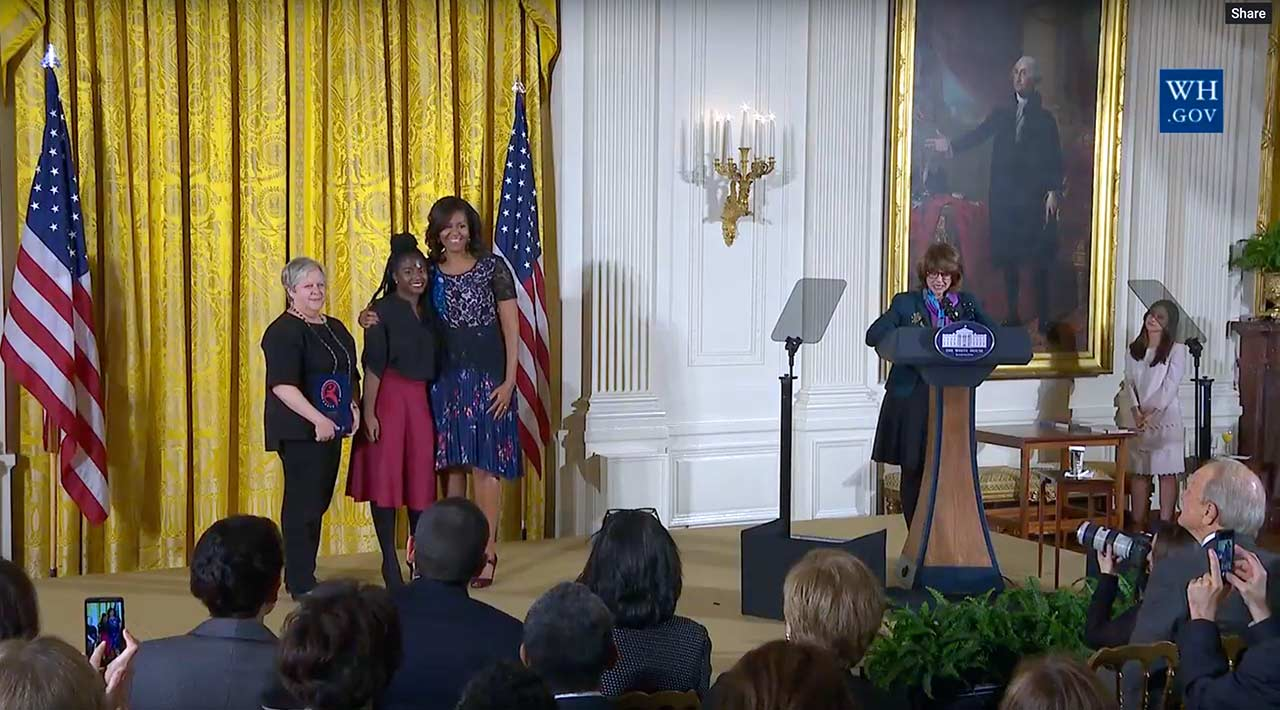
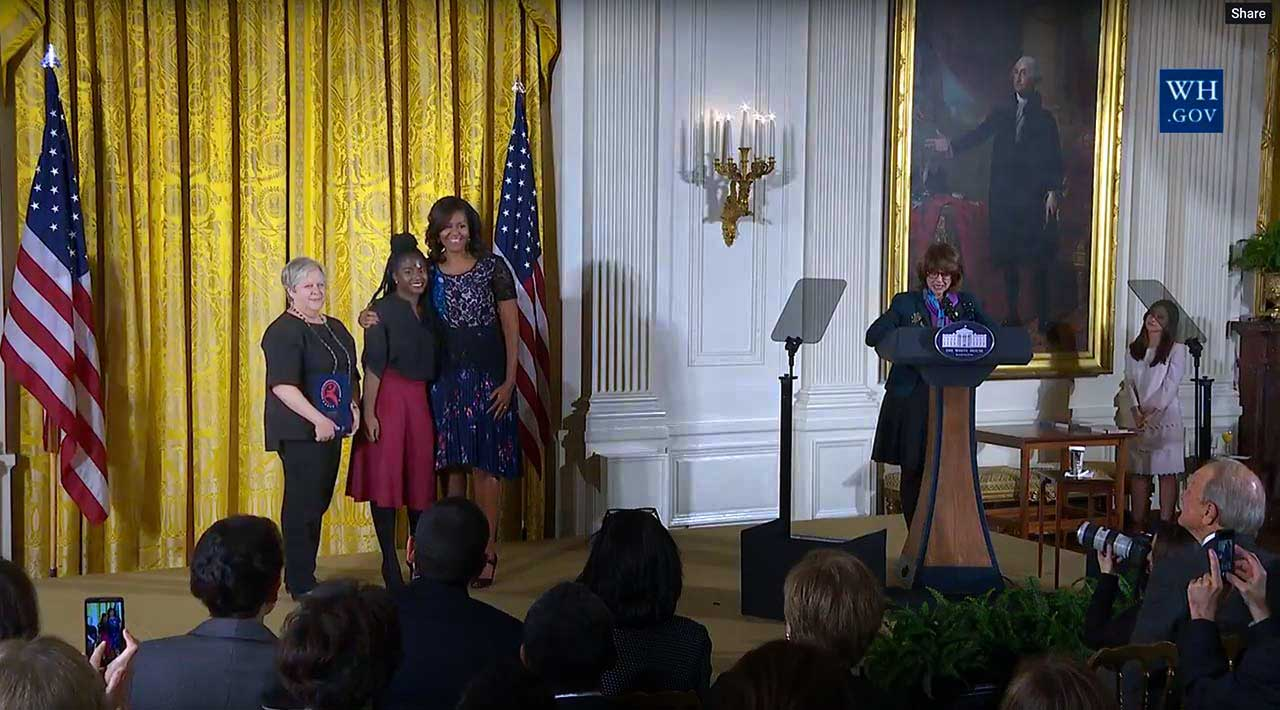
update content on work pages

diff --git a/layouts/_default/_markup/render-image.html b/layouts/_default/_markup/render-image.html
@@ -1,3 +1,3 @@
 <p class="resize">
-  <img class="render-hooked" src="{{ .Destination | safeURL }}" alt="{{ .Text }}" {{ with .Title}} title="{{ . }}"{{ end }} loading="lazy" />
+  <img class="render-hooked" src="{{ .Destination | safeURL }}" alt="{{ .Text }}" {{ with .Title}} title="{{ . }}"{{ end }} />
 </p>

diff --git a/content/work/metriclab.md b/content/work/metriclab.md
@@ -12,7 +12,7 @@ seo_page_title = ""
 subtitle = ""
 title = "MetricLab"
 [[layers]]
-head = "Issues"
+head = "Problems"
 template = "fm_layer_content"
 text = "MetricLab was starting to have identity problems. One half of the problem was that clients weren't clear about what they did. The other half of the problem was that they didn't look as cutting-edge as they said they were.\n\nAs you can see below, their old site was quite stale. Their website and identity were stuck back in the days when we used to call the internet \"cyber space.\" The value that they offered was not being refelcted in their identity nor their website. \n\nYou know the deal—time for a redesign.\n\n![](/uploads/clients/metriclab/active-com.jpg)"
 [[layers]]
@@ -21,7 +21,7 @@ text = "We need a complete make over"
 [[layers]]
 head = "Rebrand"
 template = "fm_layer_content"
-text = "We came up with a new name, logo and website. Most beginnings are humble—so are the designs that accompany them. It's important to get in the game with your best foot forward. However, with success, it's important to keep your identity in line with your growth.  MetricLab had grown substantially since they opened. They decided it was time to level up. They wanted their identity to match their high quality services. They also wanted a look that appealed to their current and potential clients.\n\n## New name\n\nWe changed the name to **MeticLab**. The old name, ActiveCommLabs LLC suffered in many ways. First off, it wasn't memorable. Second, it was very generic sounding. Thrid, the LLC part made their business sound like a law firm. So we chose a [suggestive naming style](https://www.liquidagency.com/brand-exchange/sti-6-naming-styles/) to keep their name aligned with what they did, but with a much [stronger name](https://www.martyneumeier.com/strong-vs-weak-names).\n\n![](/uploads/clients/metriclab/Business-Card.jpg)\n\n## New logo\n\nWe redesigned the logo. The old logo had a lot of bad things going for it. First, it's design was sending conflicting messages. The circle with arrows was sending a message that implied recycling, which they didn't do. Next, the AC monogram looked like something you'd see on towels at your grandparents house. It was a style of lettering that rooted them in looking old instead of new.\n\nWe created a better logo by using a square shape to relate it visually to a unit of measurement. Also, a square is a stable and timeless shape. A square doesn't look old or new. It just looks stable and balanced. The mL and layout borrows an appearance similar to the periodic table, and that's the point. We wanted to employ all the tricks in the book to align their identity with being scientific, analytical and percise.\n\n![](/uploads/clients/metriclab/ml-logos.png)\n\n## New website\n\nWe designed and developed a brand new website. The old website had bad design, layout and imagery. The image of the girl with the laptop was bad, but the fact that the laptop screen wasn't even turned on made the image even more painful. We wanted the new website to fix all of these problems.\n\nWe wanted the new website to take it's time to introduce itself to the viewer. We started with a strong and clear statement about what they did, “Relentless Research and Innovation.” We then took the time to slowly intoduce what they did, and we ended on a strong client list to reinforce their authority and experience in the field."
+text = "We came up with a new name, logo and website. Most beginnings are humble—so are the designs that accompany them. It's important to get in the game with your best foot forward. However, with success, it's important to keep your identity in line with your growth.  MetricLab had grown substantially since they opened. It was time to level up and match their identity to their high quality services.\n\n## New name\n\nWe changed the name to **MeticLab**. The old name, ActiveCommLabs LLC suffered in many ways. First off, it wasn't memorable. Second, it was very generic sounding. Thrid, the LLC part made their business sound like a law firm. So we chose a [suggestive naming style](https://www.liquidagency.com/brand-exchange/sti-6-naming-styles/) to keep their name aligned with what they did, but with a much [stronger name.](https://www.martyneumeier.com/strong-vs-weak-names)\n\n![](/uploads/clients/metriclab/Business-Card.jpg)\n\n## New logo\n\nWe redesigned the logo. The old logo had a lot of bad things going for it. First, it's design was sending conflicting messages. The circle with arrows was sending a message that implied recycling, which they didn't do. Next, the AC monogram looked like something you'd see on towels at your grandparents house. It was a style of lettering that rooted them in looking old instead of new.\n\nWe created a better logo by using a square shape to relate it visually to a unit of measurement. Also, a square is a stable and timeless shape. A square doesn't look old or new. It just looks stable and balanced. The mL and layout borrows an appearance similar to the periodic table, and that's the point. We wanted to employ all the tricks in the book to align their identity with being scientific, analytical and percise.\n\n![](/uploads/clients/metriclab/ml-logos.png)\n\n## New website\n\nWe designed and developed a brand new website. The old website had bad design, layout and imagery. The image of the girl with the laptop was bad, but the fact that the laptop screen wasn't even turned on made the image even more painful. We wanted the new website to fix all of these problems.\n\nWe wanted the new website to take it's time to introduce itself to the viewer. We started with a strong and clear statement about what they did, “Relentless Research and Innovation.” We then took the time to slowly intoduce what they did, and we ended on a strong client list to reinforce their authority and experience in the field."
 [[layers]]
 alt = "Screen shot of new MetricLab website"
 image = "/uploads/clients/metriclab/ml-site.jpg"

diff --git a/content/work/segl.md b/content/work/segl.md
@@ -1,5 +1,5 @@
 +++
-client_heading = "A great client with a great cause"
+client_heading = "You will know when it's time for a redesign"
 client_image = "/uploads/clients/segl/students8.jpg"
 client_location = "D.C."
 client_logo = "/uploads/clients/logos/white/segl-rectangle-white.svg"
@@ -12,23 +12,23 @@ seo_page_title = ""
 subtitle = ""
 title = "The School for Ethics and Global Leadership"
 [[layers]]
-head = "Change"
+head = "Problems"
 template = "fm_layer_content"
-text = "The School for Ethics and Global Leadership (SEGL) is a semester school for high school students who want to learn how to become ethical leaders and create positive change in the world.\n\nIn 2008, SEGL sought to build a lasting identity and website for the school. The staff wanted to refresh their site and were kicking around the idea of a new logo. \n\nLogo redesign shouldn't be taken lightly — after all, it's your business's identity. For a lesser-known organization with a bad logo, it's best to start anew. But in cases where people recognize and embrace your logo, it’s smarter to make little steps forward. Remember how bad the Gap’s massive rebranding went?(https://medium.com/@gfraikin/gap-worse-rebrand-ever-even-6-years-later-4a883d0cc736u)? \n\nSo here’s what we did.\n\n## Old Logo\n\n![](/uploads/clients/segl/segl-v2-brown.png)\n\n## New Logo"
-[[layers]]
-image = "/uploads/clients/segl/segl-trio-green.png"
-template = "fm_layer_image"
+text = "The School for Ethics and Global Leadership(SEGL) was starting to have problems with their website and their logo. Business had been good, but they noticed that their dated website and logo were starting to make them look behind the times compared to other schools. Also, they were having problems with their long rectangular logo fitting into small square or circular social media profile images."
 [[layers]]
 head = "Shapes"
 template = "fm_layer_content"
-text = "We made subtle changes to the new logo to fix it up but made sure it looked familiar to SEGL's community. We ditched the lowercase letters as that was more popular in the early 2000s. We also changed the font from Garamond to Museo Slab. We wanted to keep the traditional look of serif letters yet use a more modern serif. We got rid of the Kodak like side cuts that pointed to the map of the world. Instead, we set the logo to several geometric shapes that made it timeless and stable. Also, logo design today requires a mark that can work across a rectangular, square and circular space. Social media accounts require square or circular profile images, while websites and bumper stickers like rectangular dimensions."
+text = "We improved the old logo by making subtle yet cool changes to it. First, we ditched the lowercase letters. Lowercase lettering was more popular in the early 2000s. Second, also changed the font from Garamond to Museo Slab. We wanted to keep the traditional look of serif letters yet use a more modern serif. Third, we got rid of the Kodak like side cuts that pointed to the map of the world. Instead, we set the logo to several geometric shapes that made it timeless and stable. Lastly, we made a rectangular, square and circular version of the logo. This enables SEGL to effectively use their logo in round social media profile images, rectangular website layouts and client logo grids. Overall, it was important to keep the new logo familiar to SEGL's community-and we did that.\n\n## Old Logo\n\n![](/uploads/clients/segl/segl-v2-brown.png)\n## New Logo(s)\n![](/uploads/clients/segl/new.png)"
+[[layers]]
+image = "/uploads/clients/segl/segl-bg.png"
+template = "fm_layer_image"
 [[layers]]
 template = "fm_layer_quote"
-text = "Change Yourself Change the World"
+text = "You made our logo even better!"
 [[layers]]
 head = "Website"
 template = "fm_layer_content"
-text = "Although their original website had been serving them fine, it was time for a redesign. SEGL wanted to both freshen the site and have the ability to better manage the content in the site, especially the home page. We redesigned the site to function as a stack of movable layers. Each layer serves a single purpose for clarity and can be updated and repositioned anywhere on the homepage.\n\nWe also converted the website from WordPress to Hugo and Forestry. We wanted to take advantage of static site technology for speed and security. Additionally, we wanted a content management system with less bloat. Just by moving to the new platforms, we will be able to delete 20GB of cruft. And the bonus? It will  help keep their hosting costs low."
+text = "SEGL's current website was thriteen years old and was showing signs of againg. The image slider at the top is a relic of the past, and so is the gradient background. The old site wasn't responsive either-it wasn't optimized for viewing on mobile devices.\n\n## Old Website\n\n![](/uploads/clients/segl/segl-old-site.jpg)\n\n## New website\n\nSEGL wanted to both improve the look of their website and their ability to manage the content in the site, especially the home page. To achieve this, we redesigned the site to function as a stack of movable layers. Each layer serves a single purpose for clarity and can be updated and repositioned anywhere on the homepage.\n\nWe also converted the website from WordPress to Hugo and Forestry. We wanted to take advantage of static site technology for speed, security and fast customization. Making this change also enabled SEGL to delete 20GB of bloated WordPress nonsense. This further allowed them to save on hosting fees too."
 [[layers]]
 alt = "Screen shot of new Metric Lab website"
 image = "/uploads/clients/segl/segl-website.jpg"

diff --git a/content/work/earthdance.md b/content/work/earthdance.md
@@ -12,13 +12,13 @@ seo_page_title = ""
 subtitle = ""
 title = "Earthdance"
 [[layers]]
-head = "Issue"
+head = "Stale"
 template = "fm_layer_content"
-text = "Earthdance had an old, stale website with layout and content issues. They wanted a fresh new look, and they wanted to better organize the information.\n\n## The old site\n\nAs you can see, the old site has some major issues. First, there is a big pothole under the navigation where their featured image section had broken. Second, the page is broken into several columns. This creates a an unfortunate phenomenon called info barf. When you make colums you actual make each column fight for attention. It's like having multiple people talking to you at once. Thus, you have to ignore every column but the one you want. Since the main column is the one you focus on, you contition your viewers to ALWAYS ignore your side columns. Now, that extra info you provide is NEVER viewed.\n\n![](/uploads/clients/earthdance/old-website.jpg)"
+text = "Earthdance had an old, stale website with layout and content issues. They wanted a fresh new look, and they wanted to better organize the information in the website.\n\n## The old site\n\nAs you can see, the old site has some major issues. First, there is a big pothole under the navigation where their featured image section had broken. Second, the page is broken into several columns. This creates a an unfortunate phenomenon called info barf. When you make colums you actual make each column fight for attention. It's like having multiple people talk to you at once. Thus, you have to ignore every column but the one you want. Since the main column is the one you focus on, you contition your viewers to ALWAYS ignore your side columns. Now, that extra info you provide is NEVER viewed.\n\n![](/uploads/clients/earthdance/old-website.jpg)"
 [[layers]]
-head = "Solution"
+head = "Fresh"
 template = "fm_layer_content"
-text = "We designed and developend a fresh new website that was easy to manage and navigate. We used “layers” instead of columns to organize the content into single purpose sections. No more “info barf.” We wanted the homepage to slowly intoduce what Earthdance does. No need to say everything at once, just scroll down and it will introduce the next section without conflicting content.\n\nWe used a great pluign for WordPress called “Advanced Custom Fields” to greatly help with managing all the custom content in the site."
+text = "We designed and developend a fresh new website that was easy to manage and navigate. We used “layers” instead of columns to organize the content into single purpose sections. No more “info barf.” We wanted the homepage to slowly intoduce what Earthdance does. No need to say everything at once, just scroll down and it will introduce the next section without conflicting content.\n\nWe used a great pluign for WordPress called “Advanced Custom Fields” to allow for more advanced page management and customization."
 [[layers]]
 alt = "Screen shot of new Earthdance Farms website"
 image = "/uploads/clients/earthdance/homepage-EarthDance.jpg"
@@ -27,10 +27,6 @@ template = "fm_layer_browser"
 head = "Technical"
 template = "fm_layer_content"
 text = "The old site was suffering heavily from classic WordPress issues. It was loading very slowly, it was getting hacked, and it would also crash when they tried to update plugins or WordPress versions. We fixed all of these issues by moving the site to WPEngine for hosting. WPEngine handles all of the performance issues that come with WordPress. They cache the pages and store static assets, like images, to a “Content Delivery Network(CDN)”. This greatly improves the loading speed of a WordPress site. WPEngine also manages security to prevent your site from getting hacked. They also provide a “staging area” that allows you to make your updates in a testing space before you update the live site. This enabled us to make safe updates without crashing the site ever again. But these are only several of many benefits WPEngine offeres. In fact, WPEngine is so amazing with WordPress sites that it is the ONLY host I will use for WordPress sites."
-[[layers]]
-head = "Kind words"
-template = "fm_layer_content"
-text = "I am pleased to recommend Ben Gandhi-Shepard for whatever your website design needs may be. I was fortunate to work with him on the redesign of EarthDance’s website in 2017. He went above and beyond what I would have expected in creativity and customer service. He explained technical issues related to the design process in language I could understand, and was patient when he needed to explain things a second or third time. I love the design he developed for our website.\n\nSincerely,\n\nRachel Levi\n\nActing Executive Director"
 [[layers]]
 image = "/uploads/clients/earthdance/carry.jpg"
 template = "fm_layer_image"

diff --git a/content/about.md b/content/about.md
@@ -24,5 +24,5 @@ text = "Ben has worked with fortune 500 companies, financial institutions, museu
 [[layers]]
 head = "Process"
 template = "fm_layer_content"
-text = "The entire process is designed for effenciency, effectivness and endurance.\n\n## Effenciency\n\nThe process of making a redesign requires a lot of commuincation, however, this can also eat up a ton of time when mismanaged. To centralize this, SOLVM uses Discord. Discord allows us all to chat in one place without having to push hundreds of emails back and forth.\n\nThe design process will be centralized by using an application called Figma. This allows SOLVM to share a direct link to the designs. You can use this link to follow progress on the designs and/or make notes to discuss later. Again, there will be no need to email dozenes if not hundreds of screenshots back and forth during the design process. Having one link to the designs also makes it easy to share the project with others involved in the redesign.\n\nTo make the development of the website efficient, you will also have a link to the development site. The development site will have software in it that allows you to click any part of the site and leave a message. This will create a change list that will be easy for SOLVM to follow. No more wasted time trying to find where your requested changes are.\n\n## Effectiveness\n\nEffectiveness is created when we focus the redesign around a core business goal. Yes, the presenting goal is to look better, but the real opportunity is to create value needed for doing better business. SOLVM will make you decide upon a core business goal to work towards with the redesign. This greatly helps us stay focused on what is best for business.\n\nResearch will also be done into evaluating your competitors position. We don't need to compete with the entire world, we just need to outrun your direct competitors.\n\n## Endourance\n\nWe want out efforts to last as long as possible. The way we keep the site looking good for a long time is to base it on great typograpy, layout and imagery. These core design elements age gracefully. Gimicky design practices do not. SOLVM will also use web technologies that enable you to grow and change quickly online."
+text = "The entire process is designed for effenciency, effectivness and endurance.\n\n## Effenciency\n\nThe process of making a redesign requires a lot of commuincation, however, this can also eat up a ton of time when mismanaged. To centralize this, SOLVM uses Discord. Discord allows us all to chat in one place without having to push hundreds of emails back and forth.\n\nThe design process will be centralized by using an application called Figma. This allows SOLVM to share a direct link to the designs. You can use this link to follow progress on the designs and/or make notes to discuss later. Again, there will be no need to email dozenes if not hundreds of screenshots back and forth during the design process. Having one link to the designs also makes it easy to share the project with others involved in the redesign.\n\nTo make the development of the website efficient, you will also have a link to the development site. The development site will have software in it that allows you to click any part of the site and leave a message. This will create a change list that will be easy for SOLVM to follow. No more wasted time trying to find where your requested changes are.\n\n## Effectiveness\n\nEffectiveness is created when we focus the redesign around a core business goal. Yes, the presenting goal is to look better, but the real opportunity is to create value needed for doing better business. SOLVM will make you decide upon a core business goal to work towards with the redesign. This greatly helps us stay focused on what is best for business.\n\nResearch will also be done into evaluating your competitors position. We don't need to compete with the entire world, we just need to outrun your direct competitors.\n\n## Endourance\n\nWe want out efforts to last as long as possible. The way we keep the site looking good for a long time is to base it on great typograpy, layout and imagery. These core design elements age gracefully.\n\nSOLVM will also use web technologies that enable you to grow and change quickly online. This is how you get get a redesign done effecinetly, effectively and enable it to endure the test of time gracefully."
 +++

diff --git a/content/work/slaw.md b/content/work/slaw.md
@@ -1,6 +1,6 @@
 +++
-client_heading = "Working with Artworks"
-client_image = "/uploads/clients/slaw/background-001.jpg"
+client_heading = "Redesign at the right time"
+client_image = "/uploads/clients/slaw/AnnaLise-NAHYA-Michelle-Obama2.jpg"
 client_location = "STL"
 client_logo = "/uploads/clients/logos/logo_artworks.svg"
 client_type = "Job Training in the arts"
@@ -12,9 +12,9 @@ seo_page_title = ""
 subtitle = ""
 title = "St. Louis Artworks"
 [[layers]]
-head = "V3"
+head = "Opportunity"
 template = "fm_layer_content"
-text = "St. Louis Artworks (SLAW) is a program that offers job training to underserved STL teens by employing them as apprentices to professional artists. SLAW wanted to completely redesign their website, and this would be its third iteration.\n\n## Old Website\n\n![](/uploads/clients/slaw/slaw-old.jpg)\n\nThe old website had all the issues of websites made in the early 2000s. First, it had the three-column layout, which meant the main, center column of content is sandwiched between a left and right column. The idea behind this layout is to present as much information as possible. However, it makes for a visually busy look that competes for visitors' attention. Furthermore, it can cause some to ignore the content on the left and right columns. We wanted to do away with the three-column format.\n\nThe second issue is that the navigation is broken into three areas — top, main, and left. Again, competing elements. We wanted the redesign to only have one spot for navigation."
+text = "St. Louis Artworks (SLAW) wanted to completely redesign their website. Their old website had become stale and they wanted to improve their look online before a mojor effort to raise money for the program.\n\n## Old Website\n\n![](/uploads/clients/slaw/slaw-old.jpg)\n\nThe old website had all the issues of websites made in the early 2000s. First, it had the three-column layout, which meant the main, center column of content is sandwiched between a left and right column. The idea behind this layout is to present as much information as possible. However, it makes for a visually busy look that competes for visitors' attention. Furthermore, it can cause some to ignore the content on the left and right columns. We wanted to do away with the three-column format.\n\nThe second issue is that the navigation is broken into three areas — top, main, and left. Again, competing elements that cause confusion. We wanted the redesign to unify these into one navigation bar."
 [[layers]]
 alt = "Screenshot of new SLAW website"
 image = "/uploads/clients/slaw/slaw-website.jpg"
@@ -27,6 +27,10 @@ template = "fm_layer_browser"
 head = "The Fix"
 template = "fm_layer_content"
 text = "As you can see, we killed the columns and used layers instead. Using layers allows viewers to focus on one thing at a time and helps them interact with your site at a comfortable pace without competing content.\n\nWe put the entire navigation under a menu button at the top of the screen. This navigation disappears when you scroll down, but it instantly appears once you start to scroll back up, thereby adding convenience.\n\n## Google Analytics\n\nWe used Google Analytics to tell us which pages of the old website received the most traffic. After finding that the \"Apply\" and \"About\" pages were most popular, we designed the homepage to allow teens to apply to the program, and we included a section about SLAW that provided high-level info about the program. With the help of Google Analytics, we were able to make informed decisions that guided the website redesign."
+[[layers]]
+head = "Awards"
+template = "fm_layer_content"
+text = "Overall, it just so happened that completing this redesign coincided with the White House's research into outstanding youth programs in the nation. It's not that this redesign was the best in the world, but it surely was one of the best looking websites for youth programs in 2016. SLAW surely won the National Arts and Humanities Award on their on merit, but it surely supports your cause when you look as good as you say you are online."
 [[layers]]
 image = "/uploads/clients/slaw/slaw-bldg.jpg"
 template = "fm_layer_image"

diff --git a/content/work/nato-caliph.md b/content/work/nato-caliph.md
@@ -1,5 +1,5 @@
 +++
-client_heading = "Think this is hard enough? Try winnin'"
+client_heading = "Style is identity"
 client_image = "/uploads/clients/nato-caliph/nato-12.jpg"
 client_location = "STL"
 client_logo = "/uploads/clients/logos/white/nato-caliph-white.svg"
@@ -12,31 +12,31 @@ seo_page_title = ""
 subtitle = ""
 title = "Nato Caliph"
 [[layers]]
-head = "Lyrics"
+head = "Build"
 template = "fm_layer_content"
-text = "The heading above is a lyric from STL emcee and activist Nato Caliph. Making it in the music business is not for the faint of heart, neither is building and running your business — no matter what it is — from the ground up.\n\n## The Build\n\nNato Caliph was releasing a new album and needed a full refresh: new logo, photos and website. It was time to build."
-[[layers]]
-template = "fm_layer_quote"
-text = "Ben FTW!"
+text = "STL hip-hop emcee and activist, Nato Caliph, was releasing a new album, The Build. He needed graphic design, web development and photography to market his latest album release. It was time to build."
 [[layers]]
 head = "Handwritten"
 template = "fm_layer_content"
-text = "We started by creating a handwritten, signature-style logo.\n\n![](/uploads/clients/nato-caliph/nato-signature.jpg)"
+text = "SOLVM started by creating a handwritten, signature-style logo. SOLVM handwrote the logo using a broad tipped paint pen in a graffitisque style to root the mark in hip-hop culture.\n\n![](/uploads/clients/nato-caliph/nato-signature.jpg)"
+[[layers]]
+template = "fm_layer_quote"
+text = "The logo is dope!"
 [[layers]]
 head = "Photography"
 template = "fm_layer_content"
-text = "It was then time for photography. All images were captured by me using the amazing Fuji X-T3 and gorgeous 56mm f1.2 and 90mm f2 lenses."
+text = "Nato picked the location for the photo shoot, and SOLVM brought the gear. All images were captured using the amazing Fuji X-T3 with Fuji's gorgeous 56mm f1.2 and 90mm f2 lenses. The Fuji color-science is known for rendering amazing colors and skin tones. So it was the perfect fit for this shool."
 [[layers]]
 image = "/uploads/clients/nato-caliph/nato-13.jpg"
 template = "fm_layer_image"
 [[layers]]
-head = "CD"
+head = "Artwork"
 template = "fm_layer_content"
-text = "The next phase was to design and lay out the album cover.\n\n![](/uploads/clients/nato-caliph/cover.jpg)\n\n![](/uploads/clients/nato-caliph/disc.jpg)\n\n![](/uploads/clients/nato-caliph/back-cover.jpg)"
+text = "The next phase was to design the album artowrk.We stuck with the handlettering for the title. We used photos of Nato on the front and back to litterally put a face to the music.\n\n![](/uploads/clients/nato-caliph/cover.jpg)\n\n![](/uploads/clients/nato-caliph/disc.jpg)\n\n![](/uploads/clients/nato-caliph/back-cover.jpg)"
 [[layers]]
 head = "Website"
 template = "fm_layer_content"
-text = "We used the photos, new logos and music to create a new website."
+text = "We used the new photos, logo and music to create the website. We kept the site simple to keep the focus on the music and videos. As we were working on the site Nato wanted to expand it to also become an archive for all of his music and past shows. "
 [[layers]]
 alt = "Screenshot of new Nato Caliph website"
 image = "/uploads/clients/nato-caliph/nato-caliph-website.jpg"

diff --git a/content/work/afriky-lolo.md b/content/work/afriky-lolo.md
@@ -14,14 +14,14 @@ title = "Afriky Lolo"
 [[layers]]
 head = "Everything"
 template = "fm_layer_content"
-text = "Afriky Lolo needed help with graphic design, logo design, web design and photography-pretty much everything. The goal was to create an identity that was unique, representative of West African culture and professional. Afriky Lolo wanted to be authentic, professional and classy. We wanted to completely avoid that fake tribal lettering look that you typically see in the states.\n\n## The logo\n\nThe first goal was to create a logo. Afriky Lolo wanted a logo derived from one of their central characters in the performance, The Mask. This enabled us to create a powerful mark that grabs attent and hints at the energy of West African Dance."
+text = "Afriky Lolo needed help with graphic design, logo design, web design and photography—pretty much everything. The goal was to create an identity that was unique, classy, professional and representative of West African culture.\n\n## The logo\n\nThe first goal was to create a logo. Afriky Lolo wanted a logo derived from one of their central characters in the performance, The Mask. This enabled us to create a powerful mark that grabs attention and hints at the energy of West African Dance."
 [[layers]]
 image = "/uploads/clients/afriky-lolo/afriky-lolo-jump-logo.png"
 template = "fm_layer_image"
 [[layers]]
 head = "Website"
 template = "fm_layer_content"
-text = "We wanted to carry the energy and culture of Afriky Lolo into the site as well. We used a geometric backgound derived from West African textile decoration called, Bogolan to literaly wrap the site in their culture. We also used as many images as we could to help visitors feel the culture of Afriky Lolo."
+text = "We wanted to carry the energy and culture of Afriky Lolo into the site as well. We used a geometric backgound derived from West African textile decoration called, Bogolan to literaly wrap the site in West African culture. We also used as many images as we could to help visitors feel the energy and excitement within Afriky Lolo."
 [[layers]]
 alt = "Screen shot of new Afriky Lolo website"
 image = "/uploads/clients/afriky-lolo/afriky-lolo-website.jpg"

diff --git a/content/work/paul-shank.md b/content/work/paul-shank.md
@@ -14,7 +14,7 @@ title = "Paul Shank"
 [[layers]]
 head = "Vision"
 template = "fm_layer_content"
-text = "Artist Paul Shank had a specific vision for a website that would display his life's work. He had strong convictions about its design and stated he would be very detail-oriented. These clear-cut expectations make for a great client.\n\n## Paul's sketches.\n\n![](/uploads/clients/paul-shank/sketch.jpg)"
+text = "Artist Paul Shank had a specific vision for a website that would display his life's work. He had strong convictions about its design and stated he would be very detail-oriented. These clear-cut expectations make for a great client.\n\n## Paul's sketches.\n\n![](/uploads/clients/paul-shank/sketch.jpg)\n\nPaul had made rough sketches for every page in his site. These sketches provided a theme for the layout of the site. SOLVM then doctored the sketches and wrote the code for best performance, usability and search engine optimization."
 [[layers]]
 alt = "Screenshot of new Paul Shank website"
 image = "/uploads/clients/paul-shank/paul-shank-homepage.jpg"
@@ -26,7 +26,7 @@ template = "fm_layer_browser"
 [[layers]]
 head = "Results"
 template = "fm_layer_content"
-text = "Paul has been proud and confident in using this site to represent his work. He was able to use the new site to help secure a book deal. Though he apologized for being so detail oriented, Paul's specificity guided the project to a swift and accurate completion.\n\n## Also...\n\nThe site happens to perform incredibly fast!\n\n![](/uploads/clients/museum-gateway/museum-gateway-performance.png)"
+text = "Paul has been proud and confident in using this site to represent his work. He was able to use the new site to help secure a book deal. Though he apologized for being so detail oriented, Paul's specificity guided the project to a swift and accurate completion.\n\n## Also...\n\nThe site is incredibly performant!\n\n![](/uploads/clients/paul-shank/paul-shank-performance.png)"
 [[layers]]
 image = "/uploads/clients/paul-shank/still-050.jpg"
 template = "fm_layer_image"

diff --git a/content/work/museum-gateway.md b/content/work/museum-gateway.md
@@ -14,7 +14,7 @@ title = "Museum Gateway"
 [[layers]]
 head = "Endgame"
 template = "fm_layer_content"
-text = "The Contemporary Art Museum St. Louis needed help completing their Museum Gateway project. This project aimed to inform students, parents and teachers that museums offered job opportunities in varying careers. Museum Gateway worked with Maplewood Richmond Heights School District and the American Alliance of Museums to create a video and a book to present these opportunities. They just needed the final part, the website."
+text = "The Contemporary Art Museum St. Louis needed help completing their Museum Gateway project. This project aimed to inform students, parents and teachers that museums offered job opportunities in varying careers. Museum Gateway worked with Maplewood Richmond Heights School District and the American Alliance of Museums to create a video and a book to present these opportunities. They just needed the final part, the website.\n\n## New website\n\nThe project had several fun facts to convey. We displayed each fun fact with a feature that would reveal each factoid as the visitor scrolled down the site."
 [[layers]]
 alt = "Screenshot of new Museum Gateway website"
 image = "/uploads/clients/museum-gateway/museum-gateway-website.jpg"
@@ -22,7 +22,7 @@ template = "fm_layer_browser"
 [[layers]]
 head = "Fast"
 template = "fm_layer_content"
-text = "The new site happens to be super fast, by the way!\n\n![](/uploads/clients/museum-gateway/museum-gateway-performance.png)"
+text = "The new site is super fast too.\n\n![](/uploads/clients/museum-gateway/museum-gateway-performance.png)"
 [[layers]]
 image = "/uploads/clients/museum-gateway/teachers.jpg"
 template = "fm_layer_image"

diff --git a/content/work/masala.md b/content/work/masala.md
@@ -18,7 +18,7 @@ text = "Masala was opening up a new restaurant and wanted a website that was fas
 [[layers]]
 head = "Solution"
 template = "fm_layer_content"
-text = "The first step we made was to make the navigation easy and obvious to navigate. Touching any of the food categories in the navigation scrolls you down to the corresponding menu items. This is a single-page, static website, so everything the user needs is already in the page. No need to click and wait for the page to load the results, it's already there."
+text = "The first step we made was to make the navigation easy and obvious to navigate. Touching any of the food categories in the navigation scrolls you down to the corresponding menu item. This is a single-page, static website, so everything the user needs is already loaded into the page. No need to click and wait for the page to reload with the results."
 [[layers]]
 alt = "Screen shot of Masala website"
 image = "/uploads/clients/masala/masala-ss.jpg"

diff --git a/content/work/regards.md b/content/work/regards.md
@@ -19,5 +19,4 @@ text = "Keep It Simple, Stupid. This was the whole plan. It’s all about the ar
 alt = "Screenshot of new Regards website"
 image = "/uploads/clients/regards/regards-website.jpg"
 template = "fm_layer_browser"
-
 +++
